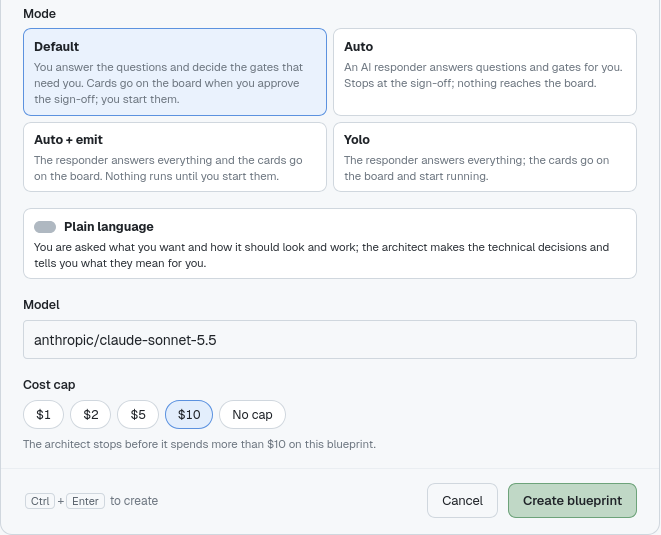
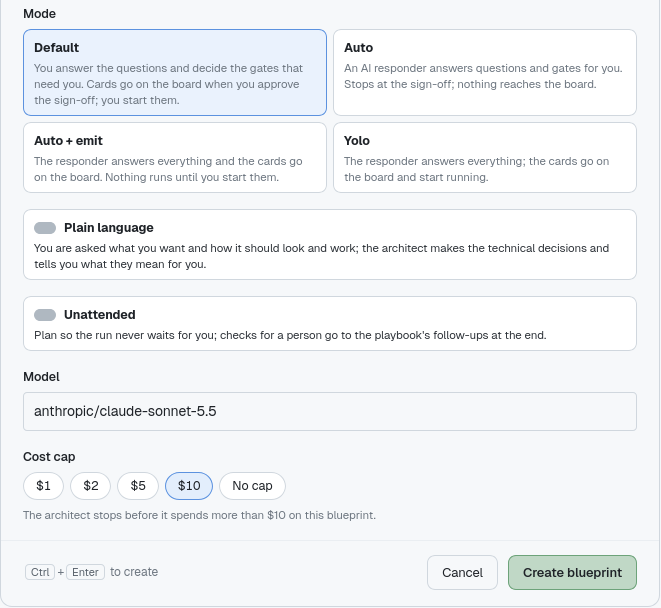
docs(guide): show the playbook follow-ups in the worked example
- M5 and M6 come after the last card, so they are follow-ups: the run
  completes after D4 and the family ticks them on the follow-up board
- the sign-off lists them under After the run (follow-ups), the playbook
  has eight entries and two follow-ups, and the closing summary points
  to them
- never put a key, token or password in the need or the chat
- new shots: the dialog with the Unattended switch, the README hero, the
  Run box at 1 of 8 and the follow-up board; the sign-off sheet, the
  emission chat and the Run box shots are cropped to what is still true

Changed region(s): [[0.0303, 0.0, 0.9682, 0.8673], [0.0, 0.8972, 0.9985, 1.0], [0.0303, 0.9271, 0.2421, 0.957]]

diff --git a/docs/guide.md b/docs/guide.md
@@ -76,7 +76,7 @@ Below the title comes **Projects**, a list of your ContextMatrix projects, each
 with a tick box and the name of its code repository. The family ticked
 recipe-box. The rest of the dialog:
 
-![The rest of the New blueprint dialog: the four modes with Default chosen, Plain language off, the Model field, the cost cap presets with $10 picked, and the Create blueprint button](images/03b-new-blueprint-settings.png)
+![The rest of the New blueprint dialog: the four modes with Default chosen, Plain language and Unattended off, the Model field, the cost cap presets with $10 picked, and the Create blueprint button](images/03b-new-blueprint-settings.png)
 
 | Field | What it sets | In the example |
 |---|---|---|
@@ -158,6 +158,10 @@ foot of the chat and send it. The family wrote:
 
 Write it as you would to a person: who it is for and what they want to do. You
 need not know how it should be built; the interview asks for the rest.
+
+Never put a key, token or password in the need or the chat: the architect never
+asks for one. A card that needs one reads it from the environment, and setting
+it there is a check for you.
 
 A message in the message box holds up to 64 KiB (65,536 bytes): about 65,000
 characters of plain English text, fewer where a letter takes more than one byte,
@@ -525,8 +529,9 @@ criteria**: tests or commands the agent runs in the project's code, each naming
 its project and the measurable outcomes it proves. SL1 got four. A check only a
 person can make, such as trying the real app in a browser, or one that needs a
 live system, becomes a **manual check** instead (MC1 to MC4 here). The playbook
-will stop at each one until a person has tried it and ticked it off
-(chapter 15).
+will stop at each one that comes between cards until a person has tried it and
+ticked it off; one that comes after the last card is a **follow-up**, which the
+run does not wait for (chapter 15).
 
 Then comes the **edge-case sweep**. The architect keeps a list of the unusual
 cases software tends to meet: empty or missing input, a failure part way
@@ -630,19 +635,23 @@ This step is your last word before the cards go on the board.
 
 In Default mode the **sign-off** waits for you. Its message says what Readiness
 found ("Readiness passed the cards.") and lists the cards and manual checks in
-run order. **Read more** opens the rest: the playbook's title, the assumptions
-the plan rests on, riskiest first, and the result of the **preflight**, a last
-check that every card's project exists in ContextMatrix with a code repository.
+run order, then the checks for after the run under **After the run
+(follow-ups)**. **Read more** opens the rest: the playbook's title, the
+assumptions the plan rests on, riskiest first, and the result of the
+**preflight**, a last check that every card's project exists in ContextMatrix
+with a code repository.
 
-![The Sign-off sheet: Run order, 10 as playbook Recipe box, a table of steps 1 to 4 with D1 and D2 marked feature and M1 and M2 marked manual, each with what it does](images/26b-signoff-sheet.png)
+![The Sign-off sheet's run order: a table of steps 1 to 4 with D1 and D2 marked feature and M1 and M2 marked manual, each with what it does](images/26b-signoff-sheet.png)
 
-The **Sign-off** sheet shows the same. **Run order** lists the ten steps of the
-playbook "Recipe box": the four cards (feature) and the six manual checks
+The **Sign-off** sheet shows the same. **Run order** lists the eight steps of
+the playbook "Recipe box": the four cards (feature) and four manual checks
 (manual), in the order they run. Below it come the 20 assumptions, each with its
-status, such as confirmed by you or verified. The sign-off also listed one
-manual step for the family before the cards run: set the verify command
-`python3 -m unittest` on recipe-box in ContextMatrix. Nothing blocked and
-nothing warned, so the button reads plain **Approve**.
+status, such as confirmed by you or verified. The last two checks, M5 and M6,
+come after the last card, so the sheet lists them after the assumptions, under
+**After the run (follow-ups)**: the run does not wait for them. The sign-off
+also listed one manual step for the family before the cards run: set the verify
+command `python3 -m unittest` on recipe-box in ContextMatrix. Nothing blocked
+and nothing warned, so the button reads plain **Approve**.
 
 - **Approve** puts the cards on the board (next chapter).
 - **Reject** opens a box for what to change. The blueprint then runs again from
@@ -668,12 +677,13 @@ them.
 
 ### Emission
 
-![The chat after approve: Approved. Emission starts., Created RECIPEBO-001 (D1) to RECIPEBO-004 (D4) in recipe-box, Created playbook recipe-box with 10 entries, the Emitted message with the manual step set verify command python3 -m unittest on project recipe-box, then a line per card ending in todo](images/27a-emitted-chat.png)
+![The chat after approve: Approved. Emission starts., then Created RECIPEBO-001 (D1) to RECIPEBO-004 (D4) in recipe-box](images/27a-emitted-chat.png)
 
 After **Approve**, the architect **emits** the plan: it creates each card on the
-recipe-box board, D1 as RECIPEBO-001 and so on, then the playbook with its ten
-entries. The chat ends with what it made and the manual steps for you before
-the cards run. From here on the mode is locked; the cost cap can still change.
+recipe-box board, D1 as RECIPEBO-001 and so on, then the playbook with its
+eight entries and two follow-ups. The chat ends with what it made and the manual
+steps for you before the cards run. From here on the mode is locked; the cost
+cap can still change.
 If emission stops part way, the cards already made are kept, and `approve`
 carries on where it stopped; see
 [When a blueprint stops](reference.md#when-a-blueprint-stops).
@@ -704,7 +714,10 @@ scope, and after those the mockup the family chose.
 Open the playbook from **Playbooks** in ContextMatrix's sidebar. "Recipe box"
 starts with a description, the need's problem and value and every assumption
 with its status, and then lists its entries in order: the cards with their
-state, and the manual checks, each with a box to tick.
+state, and the manual checks, each with a box to tick. Below the entries, under
+**How to verify what was built**, are the follow-ups, M5 and M6: the checks for
+after the run. A tick there is only your record; it changes nothing about the
+run.
 
 ### Before the run
 
@@ -724,7 +737,7 @@ recipe-box a POC. See ContextMatrix's
 
 ### Starting the run
 
-![The playbook's side panel: Overview, 0 of 10 complete, Manual gates 6, Next up RECIPEBO-001; and the Run box with Make runnable ticked, the branch playbook/recipe-box, Not started and a Run button](images/32-playbook-runnable.png)
+![The playbook's Run box with Make runnable ticked, the branch playbook/recipe-box, Not started and a Run button](images/32-playbook-runnable.png)
 
 A playbook starts out not runnable. Tick **Make runnable** in its **Run** box:
 a dialog lists what that changes. Every card then runs on its own, without
@@ -733,7 +746,7 @@ playbook's own, here playbook/recipe-box: a separate line of the code, kept
 apart until the end. Confirm, then click **Run**. See ContextMatrix's
 [Make runnable](https://github.com/mhersson/contextmatrix/blob/main/docs/playbooks.md#make-runnable).
 
-![The Run box during the run: running, Running RECIPEBO-001, 1 of 10, and a Stop button](images/33-playbook-running.png)
+![The Run box during the run: running, Running RECIPEBO-001, 1 of 8, and a Stop button](images/33-playbook-running.png)
 
 The playbook runs its entries one at a time, from the top. What the agent does
 with each card, from planning to merging its work, is described in
@@ -796,8 +809,10 @@ passed too.
 ![The playbook's entries M1 to M4 ticked, each stamped human:web, just now, and entry 7, RECIPEBO-003, next up with agent active](images/37-playbook-checks-ticked.png)
 
 The family ticked M1 to M4, and the run went on by itself to RECIPEBO-003. Each
-tick records who ticked it and when. After D3 and D4 the run waited at M5 and
-M6, the checks for the week and the shopping list:
+tick records who ticked it and when. After D3 and D4 the run was complete. M5
+and M6, the checks for the week and the shopping list, come after the last card,
+so they are follow-ups: the run did not wait for them, and they sit on the
+playbook page under **How to verify what was built**:
 
 ![The Recipes screen: Banana bread and Pancakes marked this week with Remove from week buttons, Tomato pasta with Add to week, and a badge of 2 on the This week tab](images/37a-app-week-picks.png)
 
@@ -818,7 +833,10 @@ to the bottom, as chosen on the mockup. A reload keeps the ticks and the picks.
 
 M6: on a phone the three tabs sit in a bar at the bottom, the change the family
 asked for on the mockup, and the picks and ticks survive a restart of the app.
-The family ticked M5 and M6.
+The family ticked M5 and M6 on the follow-up board. A tick there is only a
+record: the run had already completed.
+
+![The playbook's follow-up board, How to verify what was built, with the note that ticks are only your record: the checks M5 and M6, both ticked](images/37e-playbook-followups.png)
 
 ## 16. When it is finished
 
@@ -829,7 +847,8 @@ This step closes the run and keeps the record.
 When every entry is done, the run is complete, and the watch ends with a
 **closing summary**: each card done with its pull request, the link to the
 final pull request for each repository, and the architect's cost ("The
-architect's runs cost 3.16 USD.").
+architect's runs cost 3.16 USD."). For a playbook with follow-ups, a line also
+points to them on the playbook page.
 
 The cards' work has been collected on the playbook's branch. The final pull
 request brings it into your main code in one go: opening and merging it is up

diff --git a/README.md b/README.md
@@ -12,7 +12,7 @@ approve each big decision before the next step builds on it. The cards go on
 an AI agent builds what each card describes, and you talk to the architect in
 ContextMatrix's chat panel.
 
-![The blueprint pane of an example blueprint at its sign-off: the scale bar with both slices done, the chat with the reviewers' verdicts and the sign-off waiting for approval, and the Sign-off sheet listing the four cards and six manual checks in the order they run](docs/images/00-blueprint-pane.png)
+![The blueprint pane of an example blueprint at its sign-off: the scale bar with both slices done, the chat with the readiness rounds and the sign-off waiting for approval, and the Sign-off sheet listing the six cards and two manual checks in the order they run](docs/images/00-blueprint-pane.png)
 
 - [Guide](docs/guide.md): one real blueprint, step by step, with pictures.
 - [Reference](docs/reference.md): every reply you can type, the modes, and the marks on the sheet.
